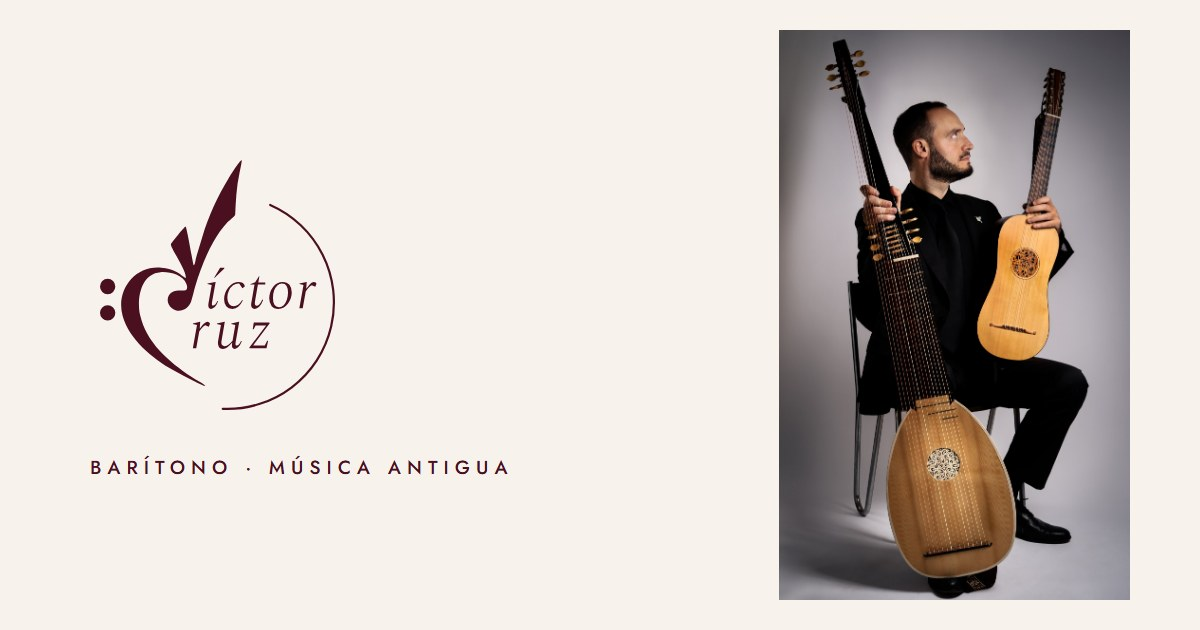
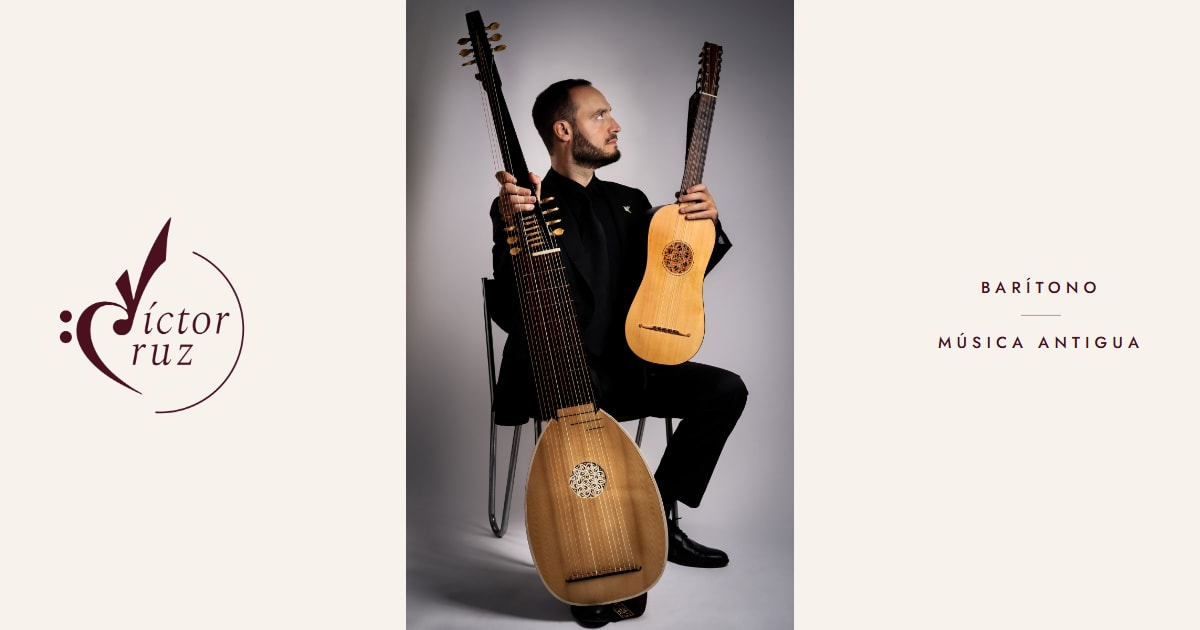
Imagen para compartir con la foto en el centro (WhatsApp la recorta en cuadrado); Don Diego: «Edited by»

diff --git a/scripts/og.html b/scripts/og.html
@@ -1,0 +1,22 @@
+<!doctype html>
+<!-- Imagen para compartir (src/assets/og.jpg, 1200×630). Se genera con «npm run og».
+     La foto va en el centro porque WhatsApp y otras apps recortan un cuadrado central. -->
+<html>
+<head>
+<meta charset="utf-8">
+<style>
+  @font-face { font-family: 'Jost'; src: url('../node_modules/@fontsource-variable/jost/files/jost-latin-wght-normal.woff2') format('woff2'); font-weight: 100 900; }
+  html, body { margin: 0; }
+  body { width: 1200px; height: 630px; background: #f7f3ec; position: relative; overflow: hidden; }
+  .photo { position: absolute; left: 50%; top: 0; height: 630px; transform: translateX(-50%); }
+  .logo { position: absolute; left: 52px; top: 50%; width: 200px; transform: translateY(-50%); }
+  .tag { position: absolute; right: 44px; top: 50%; transform: translateY(-50%); width: 230px; font: 500 16px/2.1 'Jost', sans-serif; letter-spacing: 0.32em; text-transform: uppercase; color: #4a1020; text-align: center; }
+  .tag i { display: block; width: 40px; height: 1px; background: #4a1020; opacity: 0.4; margin: 10px auto; }
+</style>
+</head>
+<body>
+  <img class="logo" src="../marca/png/logo-vino-1200.png" alt="">
+  <img class="photo" src="../src/assets/fotos/tiorba.jpg" alt="">
+  <div class="tag">Barítono<i></i>Música antigua</div>
+</body>
+</html>

diff --git a/src/data/videos.ts b/src/data/videos.ts
@@ -63,7 +63,7 @@ export const productionClients: T = {
 /** Vídeos propios (grabación y edición suyas): ejemplos para «Más allá del canto». */
 export const ownWork: Video[] = [
   { yt: 'JUHHyPGmzJc', title: '«Ríu ríu chíu»', sub: { es: 'Cancionero de Uppsala · 2020', en: 'Uppsala Songbook · 2020' }, own: true },
-  { yt: 'eNbDNMDE81k', title: '*Don Diego de Granada*', sub: { es: 'Tráiler del estreno · Festival Música Sur · 2022', en: 'Premiere trailer · Música Sur Festival · 2022' }, own: true, credit: { es: 'Realización y edición: Víctor Cruz', en: 'Video production and editing by Víctor Cruz' } },
+  { yt: 'eNbDNMDE81k', title: '*Don Diego de Granada*', sub: { es: 'Tráiler del estreno · Festival Música Sur · 2022', en: 'Premiere trailer · Música Sur Festival · 2022' }, own: true, credit: { es: 'Realización y edición: Víctor Cruz', en: 'Edited by Víctor Cruz' } },
   { yt: 'dbZwL5-9QVo', title: '*Una voz interior*', sub: { es: 'Teaser · con Beatriz González Calderón y Héctor Eliel Márquez · 2023', en: 'Teaser · with Beatriz González Calderón and Héctor Eliel Márquez · 2023' }, own: true },
   { yt: '2quWhg6KmRk', title: '*La bestia que pedía amor a gritos desde el centro del mundo*', sub: 'Teaser · 2025', own: true },
 ];
